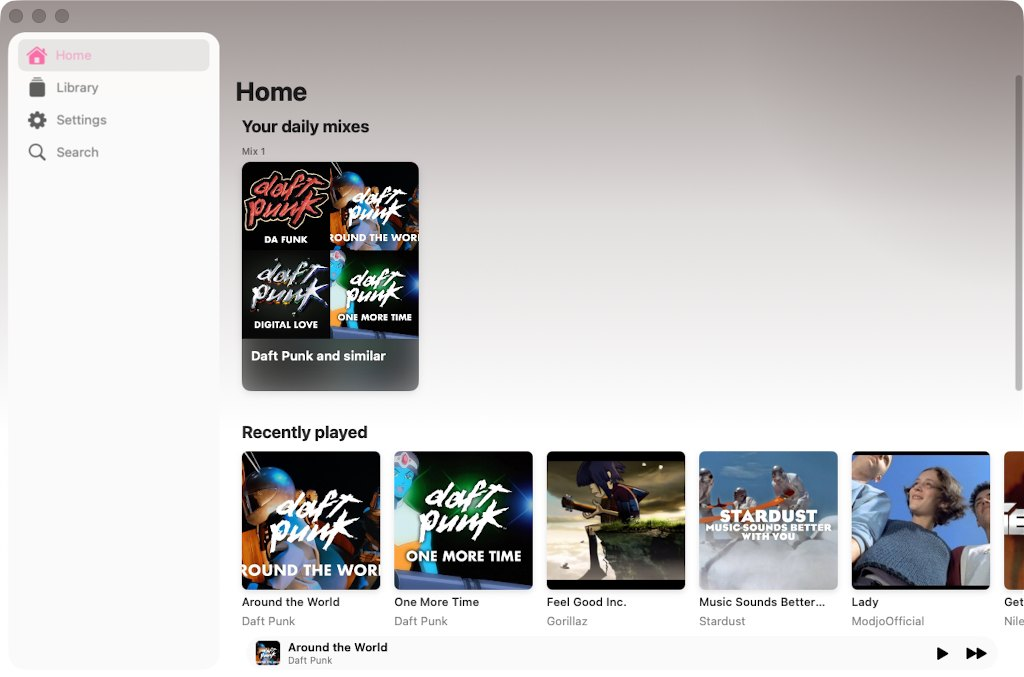
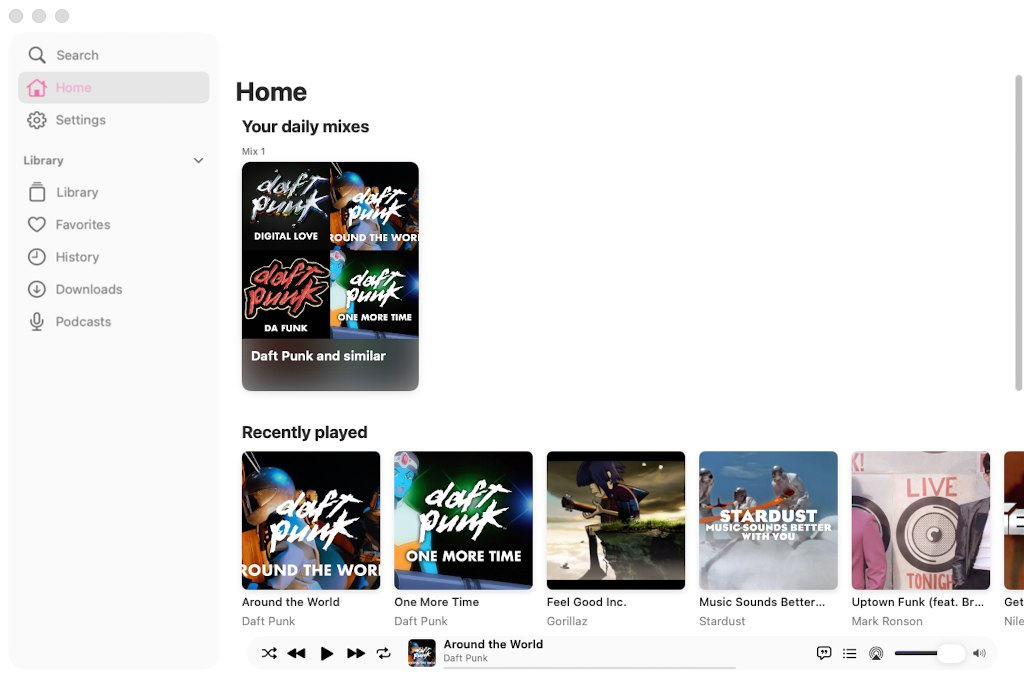
README: the Mac laid out as Apple Music; 1.28.0 notes
Claude-Session: https://claude.ai/code/session_01W6ezZjBrND7hVHLvDj3ubm

diff --git a/README.md b/README.md
@@ -117,7 +117,7 @@ The app can check GitHub for new releases and notify you or download the IPA to 
 
 ## Mac
 
-**Seaglass for Mac** is the same app as on the iPad, with the same Liquid Glass design and every feature (AutoMix, the tempo fader, the AI karaoke, the equaliser, lyrics and translation, downloads, podcasts, Last.fm), in a window of its own. It needs a Mac with **Apple silicon** (M1 or later) running **macOS 26 Tahoe** or later.
+**Seaglass for Mac** is laid out as Apple Music on the Mac: the sidebar with the library and your playlists, the player bar along the bottom, and the player with its controls in glass. It has the Liquid Glass design and every feature (AutoMix, the tempo fader, the AI karaoke, the equaliser, lyrics and translation, downloads, podcasts, Last.fm), in a window of its own. It needs a Mac with **Apple silicon** (M1 or later) running **macOS 26 Tahoe** or later.
 
 1. [Download Seaglass-mac.zip](https://github.com/Foglio24/onda/releases/latest/download/Seaglass-mac.zip) and open it: the zip becomes `Seaglass.app`.
 2. Drag Seaglass to **Applications**.

diff --git a/CHANGELOG.md b/CHANGELOG.md
@@ -4,7 +4,7 @@
 
 ### Changed
 - **Mac: laid out as Apple Music.**
-  - **Sidebar:** Search at the top, then the Home, the library (Library, Favorites, History, Downloads, Podcasts) and every one of your playlists, and Settings at the bottom.
+  - **Sidebar:** Search at the top with the Home and Settings, then the library (Library, Favorites, History, Downloads, Podcasts) and every one of your playlists.
   - **Player bar:** along the bottom of the window, as Apple Music's. It has shuffle, back, play, forward and repeat, the song with its progress (a click opens the player), the lyrics, the queue, AirPlay and the volume.
   - **Player:** the cover, the song and its controls are in the middle, with "Artist — Album", the favorite button and the ⋯ menu. The rest sits in glass at the corners: closing at the top left; AirPlay and the volume at the top right; karaoke, tempo, lyrics and queue at the bottom right. The lyrics and the queue open beside the player.
   - **Home:** on the window's own background.
